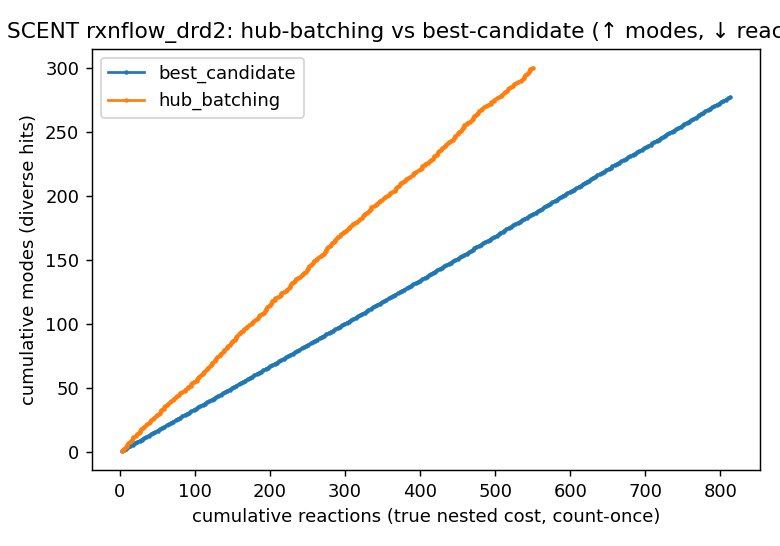
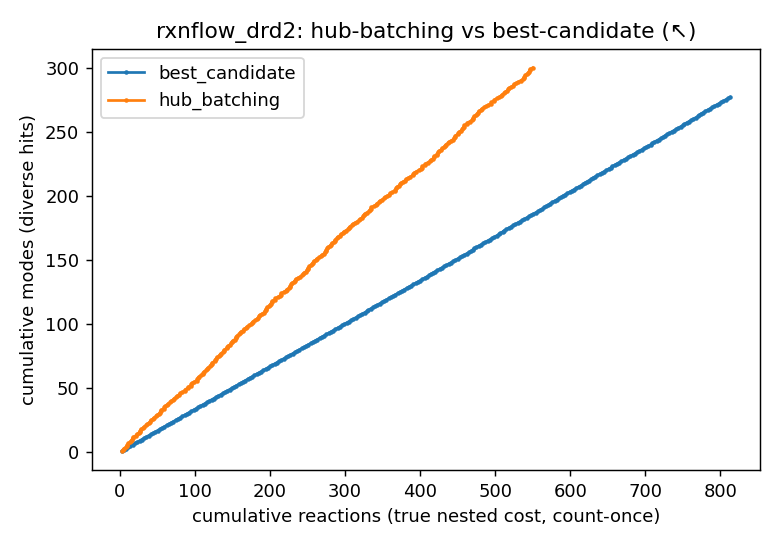
Diagonal marker for Pareto panels: one glyph at the desirable corner
Two arrows ("up modes, down reactions") make a reader resolve both axes before
they can judge a curve. pareto_marker() emits ONE diagonal instead -- (up-left)
/ (up-right) -- so the panel says "we want to be over here, and here is how
close each model gets" at a glance.

A diagonal necessarily names a CORNER OF THE PLOT, so unlike the axis-aligned
markers it must know about axis inversion. The API stays metric-based -- you
give the good direction for each axis's quantity plus the invert_* flags -- and
the corner is derived. Never hand-pick a glyph: on our diversity sweeps (x runs
0.9 -> 0.3) "more diverse is better" resolves to RIGHTWARD, so the intuitive
choice is backwards. Verified all six combinations, including both
inverted-axis panels.

Applied where both axes are genuinely objectives: the count-once curve (spend
reactions, gain modes -> up-left) and the cross-generator diversity Pareto
(-> up-right). Panels whose x-axis is a knob rather than an objective keep a
single axis-aligned arrow -- gate_curve sweeps the hit bar, and the compute
panels are categorical.

Also drops the "SCENT" prefix hardcoded into curve.png's title from when this
driver only ran SCENT -- it was labelling 12 of the 16 matrix cells wrongly
("SCENT fraggfn_drd2"), and the tag already names the generator.

All five headline cells' reactions/mode verified unchanged.

Changed region(s): [[0.0, 0.0311, 0.8923, 0.0934], [0.9231, 0.0311, 1.0, 0.0934]]

diff --git a/validation/lsdflow/plot_style.py b/validation/lsdflow/plot_style.py
@@ -11,17 +11,26 @@ standard publication practice ("FID ↓", "Accuracy ↑") — it costs no plot a
 data or the legend, survives cropping, and reads correctly in a figure list or a caption. Do not add
 arrows, shaded "better" regions, or corner annotations to the plotting area.
 
-**The glyph describes the METRIC, not the screen.** ``↓`` always means "lower values are better",
-regardless of whether the axis happens to be inverted. That is what makes it unambiguous on our flipped
-panels: ``fixed_modes`` plots reactions on an inverted y-axis, and its marker is still ``(↓)`` because
-fewer reactions is better.
+Two flavours, and picking the right one matters for readability:
 
-    from validation.lsdflow.plot_style import ideal_marker
+* **One objective** -> :func:`ideal_marker` gives an axis-aligned ``(↓)`` / ``(↑)``. The glyph describes
+  the METRIC, not the screen: ``↓`` always means "lower values are better" even where the axis is
+  flipped, so ``fixed_modes`` (reactions on an inverted y) is correctly ``(↓)``.
+* **Both axes are objectives** (every Pareto panel) -> :func:`pareto_marker` gives a single DIAGONAL
+  ``(↗)`` pointing at the desirable corner. Prefer this over two arrows: ``(↑ modes, ↓ reactions)``
+  makes the reader resolve two axes before judging a curve, whereas one diagonal says "we want to be
+  over here, and here is how close each model gets" immediately. Because a diagonal names a *corner*,
+  it is the one case that must know about axis inversion — so its API takes the metric directions plus
+  the ``invert_*`` flags and derives the corner itself.
 
-    ax.set_title(f"cost per mode {ideal_marker('lower')}")            # -> "... (↓)"
-    ax.set_title(f"modes found {ideal_marker('higher')}")             # -> "... (↑)"
-    ax.set_title("count-once curve " + ideal_marker(                  # two metrics at once
-        ("higher", "modes"), ("lower", "reactions")))                 # -> "(↑ modes, ↓ reactions)"
+    from validation.lsdflow.plot_style import ideal_marker, pareto_marker
+
+    ax.set_title(f"cost per mode {ideal_marker('lower')}")             # -> "... (↓)"
+    ax.set_title(f"modes found {ideal_marker('higher')}")              # -> "... (↑)"
+    ax.set_title("count-once curve " + pareto_marker(                  # x = reactions, y = modes
+        x="lower", y="higher"))                                        # -> "(↖)"
+    ax.set_title("diversity pareto " + pareto_marker(                  # x flipped: 0.9 -> 0.3
+        x="lower", y="higher", invert_x=True))                         # -> "(↗)"
 
 Import contract: pure stdlib (no matplotlib, no torch), so it loads in every analysis env and in tests.
 """
@@ -71,6 +80,59 @@ def title_with_ideal(title: str, *specs: Spec) -> str:
     """``title`` with the marker appended — the one-call form for ``ax.set_title``."""
     marker = ideal_marker(*specs)
     return f"{title} {marker}" if marker else title
+
+
+# Screen corner -> glyph, keyed by (good direction is rightward?, good direction is upward?).
+_CORNER = {
+    (True, True): "↗",
+    (False, True): "↖",
+    (True, False): "↘",
+    (False, False): "↙",
+}
+
+
+def pareto_marker(
+    *, x: str, y: str, invert_x: bool = False, invert_y: bool = False, note: str = ""
+) -> str:
+    """A single DIAGONAL marker for a panel where both axes are objectives — ``"(↗)"``.
+
+    Use this instead of ``ideal_marker("higher", "lower")`` on Pareto-style panels. Two arrows make a
+    reader resolve "up on this axis, down on that one" before they can judge a curve; one diagonal
+    says "we want to be in this corner — here is how close each model gets" at a glance.
+
+    Unlike the axis-aligned markers, a diagonal necessarily names a *corner of the plot*, so it must
+    account for inverted axes. The API stays METRIC-based — you say which direction is good for the
+    quantity on each axis, plus whether that axis is flipped — and the corner is derived. Never
+    hand-pick a glyph: on our diversity sweeps (x runs 0.9 -> 0.3) the naive choice is backwards.
+
+    Args:
+        x: good direction for the x-axis quantity — ``"lower"`` or ``"higher"``.
+        y: good direction for the y-axis quantity.
+        invert_x: pass ``True`` if the caller called ``ax.invert_xaxis()``.
+        invert_y: likewise for the y-axis.
+        note: optional short gloss placed after the glyph, e.g. ``"more diverse, more modes"``.
+
+    Example — the diversity Pareto (x = Tanimoto cutoff, inverted, lower = more diverse; y = modes
+    discovered, higher better) resolves to ``"(↗)"``::
+
+        pareto_marker(x="lower", y="higher", invert_x=True)
+
+    And the count-once curve (x = reactions spent, y = modes gained, neither inverted) to ``"(↖)"``.
+    """
+    for name, val in (("x", x), ("y", y)):
+        if val.strip().lower() not in _GLYPH:
+            raise ValueError(f"{name} must be 'lower' or 'higher', got {val!r}")
+    # "Good is rightward" iff the good direction is toward larger x AND x is not flipped (or the
+    # reverse of both). Same for up.
+    rightward = (_GLYPH[x.strip().lower()] == "↑") != bool(invert_x)
+    upward = (_GLYPH[y.strip().lower()] == "↑") != bool(invert_y)
+    glyph = _CORNER[(rightward, upward)]
+    return f"({glyph} {note})" if note else f"({glyph})"
+
+
+def title_with_pareto_ideal(title: str, **kw) -> str:
+    """``title`` with a diagonal Pareto marker appended (see :func:`pareto_marker`)."""
+    return f"{title} {pareto_marker(**kw)}"
 
 
 def axis_label_with_ideal(label: str, direction: str) -> str:

diff --git a/experiments/lsd_hubs/campaign/run_campaign.py b/experiments/lsd_hubs/campaign/run_campaign.py
@@ -35,7 +35,7 @@ from validation.lsdflow.metrics.cost.compute_time import account_strategy, head_
 from validation.lsdflow.metrics.cost.dynamic_amortization import (
     load_cost_table_from_snapshot,
 )
-from validation.lsdflow.plot_style import title_with_ideal
+from validation.lsdflow.plot_style import pareto_marker, title_with_ideal
 
 HERE = Path(__file__).resolve().parent
 
@@ -268,15 +268,13 @@ def _plot(path: Path, results, tag: str) -> None:
         ax.plot(xs, ys, marker=".", ms=3, lw=1.5, label=res.strategy)
     ax.set_xlabel("cumulative reactions (true nested cost, count-once)")
     ax.set_ylabel("cumulative modes (diverse hits)")
-    # Both axes are metrics here, so the marker names them (see plot_style: title-only, never drawn
-    # inside the axes).
-    ax.set_title(
-        title_with_ideal(
-            f"SCENT {tag}: hub-batching vs best-candidate",
-            ("higher", "modes"),
-            ("lower", "reactions"),
-        )
-    )
+    # Both axes are objectives (spend reactions, gain modes), so this gets ONE diagonal pointing at
+    # the desirable corner rather than two arrows the reader has to combine. Neither axis is inverted
+    # here, so cheaper-and-more-diverse resolves to up-left.
+    # The "SCENT" prefix here was hardcoded from when this driver only ever ran SCENT; the tag already
+    # names the generator, and keeping it labelled 12 of the 16 matrix cells wrongly ("SCENT
+    # fraggfn_drd2").
+    ax.set_title(f"{tag}: hub-batching vs best-candidate " + pareto_marker(x="lower", y="higher"))
     ax.legend()
     fig.tight_layout()
     fig.savefig(path, dpi=130)

diff --git a/experiments/lsd_hubs/matrix16/tau_curve_all_generators.py b/experiments/lsd_hubs/matrix16/tau_curve_all_generators.py
@@ -256,7 +256,7 @@ def _plot(path: Path, rows, cells, missing, a) -> None:
     except Exception as exc:  # noqa: BLE001
         print(f"[tau] plot skipped ({exc})")
         return
-    from validation.lsdflow.plot_style import ideal_marker
+    from validation.lsdflow.plot_style import pareto_marker
 
     fig, ax = plt.subplots(figsize=(8.2, 5.4))
     for cell in cells:
@@ -290,11 +290,12 @@ def _plot(path: Path, rows, cells, missing, a) -> None:
     ax.set_xlabel("Diversity cutoff (Tanimoto similarity)      similar modes → diverse modes")
     ax.set_ylabel(f"modes discovered within {a.budget_reactions} reactions")
     gate = rows[0]["gate"]
-    # Marker in the TITLE (plot_style convention) — the y metric is modes found, higher is better.
-    # It reads correctly despite the inverted x because the glyph describes the metric, not the screen.
+    # A true Pareto panel: both axes are objectives (more diversity = lower cutoff, more modes), so it
+    # gets ONE diagonal at the desirable corner. x is inverted, which pareto_marker accounts for —
+    # "lower cutoff is better" on a flipped axis resolves to rightward, giving up-right.
     ax.set_title(
         f"{a.target} — diverse hits per fixed synthesis budget, all generators "
-        f"{ideal_marker('higher')}\n"
+        f"{pareto_marker(x='lower', y='higher', invert_x=True)}\n"
         f"gate {gate} · {a.budget_reactions}-reaction budget · 200-hub enumeration reused\n"
         f"solid = hub-batching, dashed = best-candidate",
         fontsize=10,
